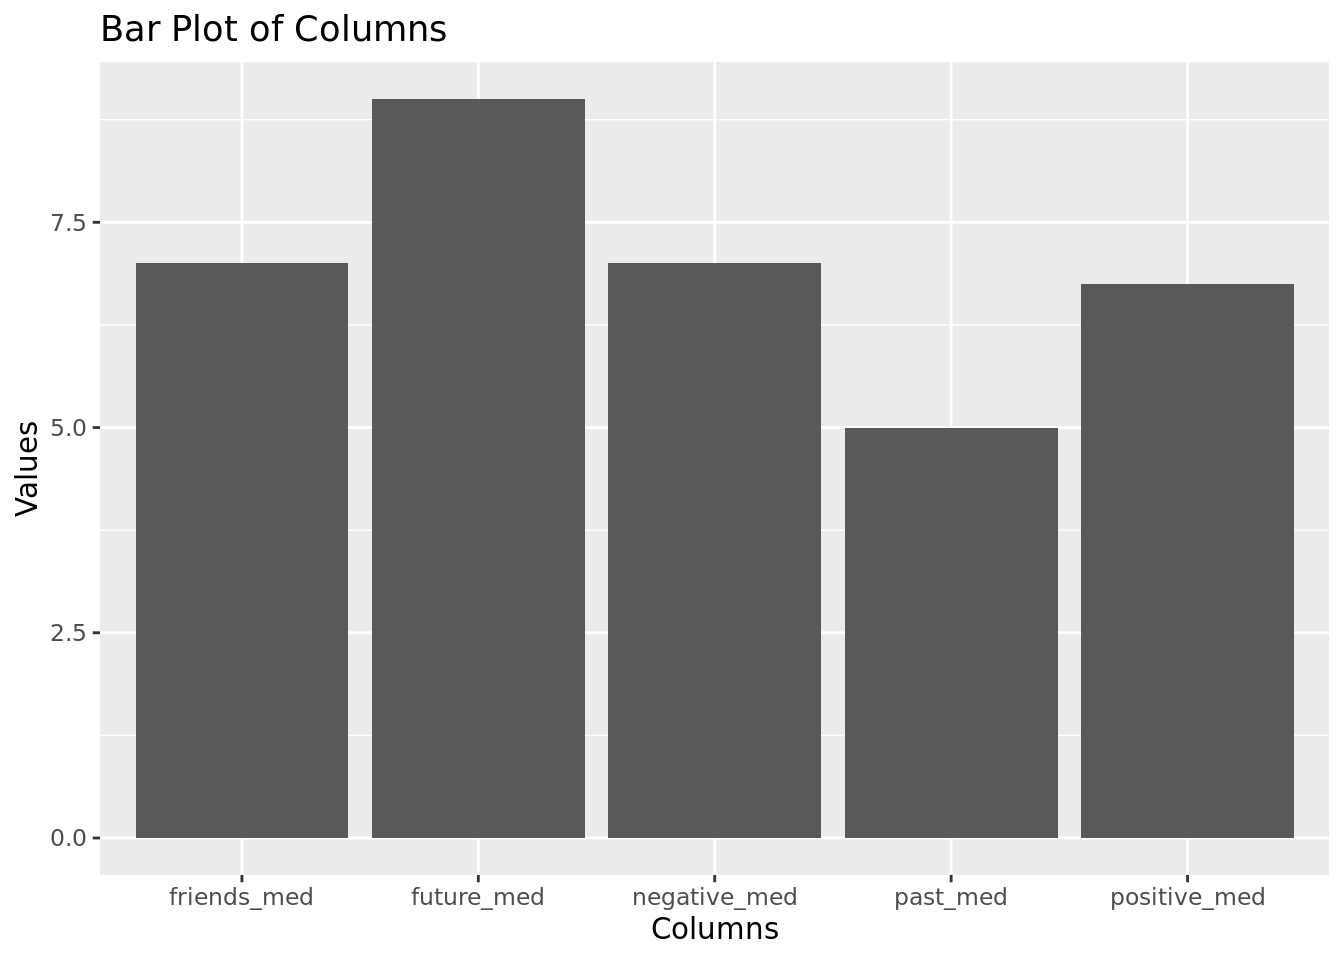
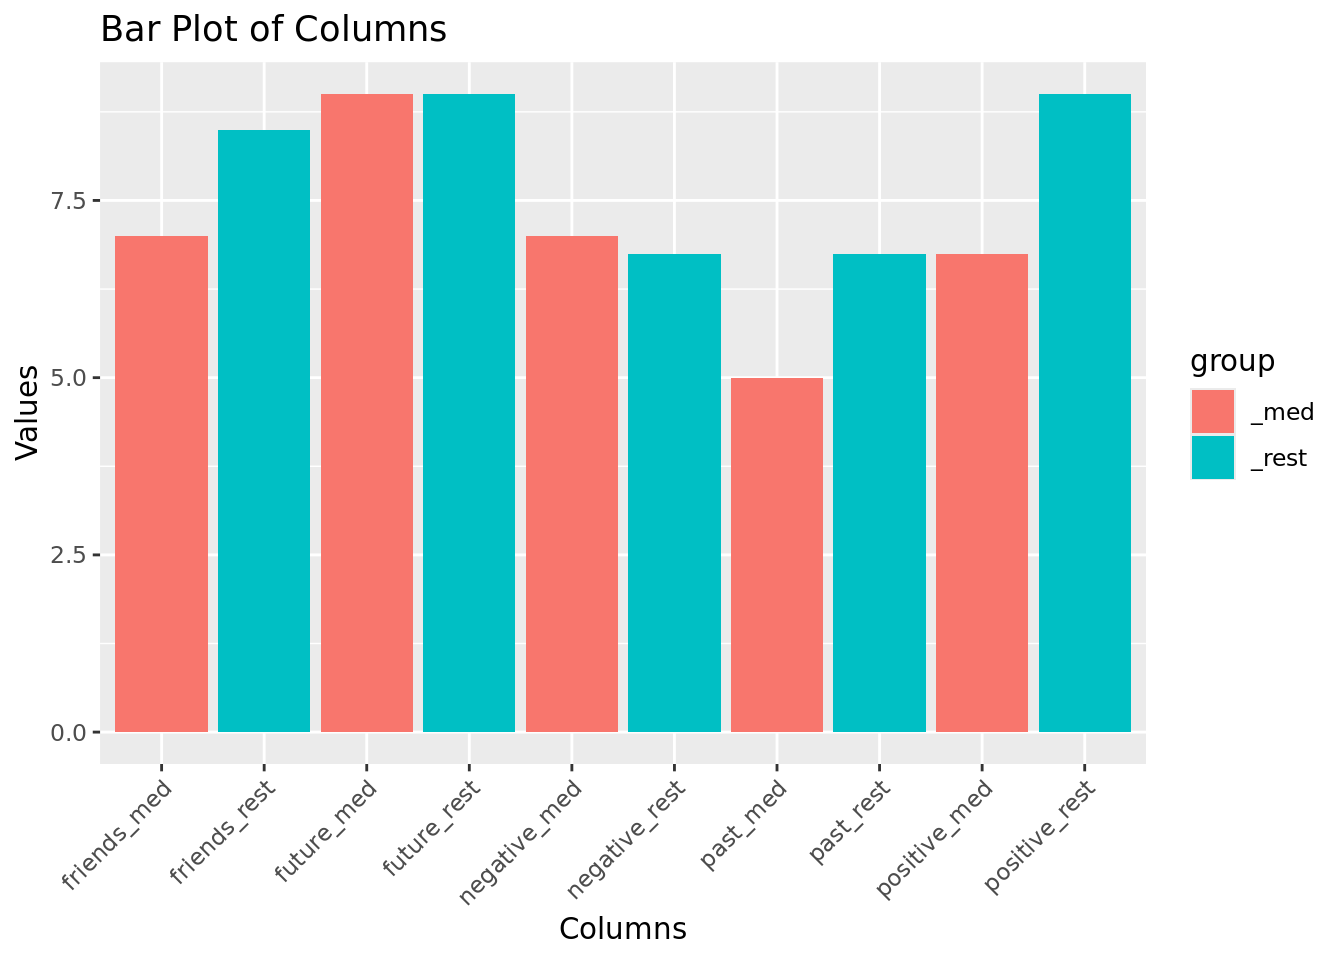
mostly done

diff --git a/eegAnalysis.html b/eegAnalysis.html
@@ -20,40 +20,6 @@ ul.task-list li input[type="checkbox"] {
   margin: 0 0.8em 0.2em -1em; /* quarto-specific, see https://github.com/quarto-dev/quarto-cli/issues/4556 */ 
   vertical-align: middle;
 }
-/* CSS for syntax highlighting */
-pre > code.sourceCode { white-space: pre; position: relative; }
-pre > code.sourceCode > span { line-height: 1.25; }
-pre > code.sourceCode > span:empty { height: 1.2em; }
-.sourceCode { overflow: visible; }
-code.sourceCode > span { color: inherit; text-decoration: inherit; }
-div.sourceCode { margin: 1em 0; }
-pre.sourceCode { margin: 0; }
-@media screen {
-div.sourceCode { overflow: auto; }
-}
-@media print {
-pre > code.sourceCode { white-space: pre-wrap; }
-pre > code.sourceCode > span { text-indent: -5em; padding-left: 5em; }
-}
-pre.numberSource code
-  { counter-reset: source-line 0; }
-pre.numberSource code > span
-  { position: relative; left: -4em; counter-increment: source-line; }
-pre.numberSource code > span > a:first-child::before
-  { content: counter(source-line);
-    position: relative; left: -1em; text-align: right; vertical-align: baseline;
-    border: none; display: inline-block;
-    -webkit-touch-callout: none; -webkit-user-select: none;
-    -khtml-user-select: none; -moz-user-select: none;
-    -ms-user-select: none; user-select: none;
-    padding: 0 4px; width: 4em;
-  }
-pre.numberSource { margin-left: 3em;  padding-left: 4px; }
-div.sourceCode
-  {   }
-@media screen {
-pre > code.sourceCode > span > a:first-child::before { text-decoration: underline; }
-}
 </style>
 
 
@@ -96,24 +62,118 @@ pre > code.sourceCode > span > a:first-child::before { text-decoration: underlin
 </header>
 
 
-<p>everything in nyc</p>
+<p>nyc surveys:</p>
 <div class="cell">
-<div class="sourceCode cell-code" id="cb1"><pre class="sourceCode r code-with-copy"><code class="sourceCode r"><span id="cb1-1"><a href="#cb1-1" aria-hidden="true" tabindex="-1"></a>nyc_long <span class="ot">&lt;-</span> <span class="fu">pivot_longer</span>(nyc, <span class="at">cols =</span> <span class="sc">-</span>koru_id)</span>
-<span id="cb1-2"><a href="#cb1-2" aria-hidden="true" tabindex="-1"></a></span>
-<span id="cb1-3"><a href="#cb1-3" aria-hidden="true" tabindex="-1"></a></span>
-<span id="cb1-4"><a href="#cb1-4" aria-hidden="true" tabindex="-1"></a>nyc_long<span class="sc">$</span>group <span class="ot">&lt;-</span> <span class="fu">ifelse</span>(<span class="fu">grepl</span>(<span class="st">"_med$"</span>, nyc_long<span class="sc">$</span>name), <span class="st">"_med"</span>, <span class="st">"_rest"</span>)</span>
-<span id="cb1-5"><a href="#cb1-5" aria-hidden="true" tabindex="-1"></a></span>
-<span id="cb1-6"><a href="#cb1-6" aria-hidden="true" tabindex="-1"></a><span class="fu">ggplot</span>(nyc_long, <span class="fu">aes</span>(<span class="at">x =</span> name, <span class="at">y =</span> value, <span class="at">fill =</span> group)) <span class="sc">+</span></span>
-<span id="cb1-7"><a href="#cb1-7" aria-hidden="true" tabindex="-1"></a>  <span class="fu">geom_bar</span>(<span class="at">stat =</span> <span class="st">"identity"</span>, <span class="at">position =</span> <span class="st">"dodge"</span>) <span class="sc">+</span></span>
-<span id="cb1-8"><a href="#cb1-8" aria-hidden="true" tabindex="-1"></a>  <span class="fu">labs</span>(<span class="at">title =</span> <span class="st">"Bar Plot of Columns"</span>,</span>
-<span id="cb1-9"><a href="#cb1-9" aria-hidden="true" tabindex="-1"></a>       <span class="at">x =</span> <span class="st">"Columns"</span>, <span class="at">y =</span> <span class="st">"Values"</span>) <span class="sc">+</span></span>
-<span id="cb1-10"><a href="#cb1-10" aria-hidden="true" tabindex="-1"></a>  <span class="fu">theme</span>(<span class="at">axis.text.x =</span> <span class="fu">element_text</span>(<span class="at">angle =</span> <span class="dv">45</span>, <span class="at">hjust =</span> <span class="dv">1</span>))</span></code><button title="Copy to Clipboard" class="code-copy-button"><i class="bi"></i></button></pre></div>
 <div class="cell-output-display">
 <div>
 <figure class="figure">
-<p><img src="eegAnalysis_files/figure-html/unnamed-chunk-6-1.png" class="img-fluid figure-img" width="672"></p>
+<p><img src="eegAnalysis_files/figure-html/unnamed-chunk-5-1.png" class="img-fluid figure-img" width="672"></p>
 </figure>
 </div>
+</div>
+</div>
+<p>Correlation Matrix for Meditation:</p>
+<div class="cell">
+<div class="cell-output-display">
+<div>
+<figure class="figure">
+<p><img src="eegAnalysis_files/figure-html/unnamed-chunk-7-1.png" class="img-fluid figure-img" width="672"></p>
+</figure>
+</div>
+</div>
+</div>
+<p>Correlation Matrix for Rest:</p>
+<div class="cell">
+<div class="cell-output-display">
+<div>
+<figure class="figure">
+<p><img src="eegAnalysis_files/figure-html/unnamed-chunk-8-1.png" class="img-fluid figure-img" width="672"></p>
+</figure>
+</div>
+</div>
+</div>
+<p>Correlation Coefficients for Meditation:</p>
+<div class="cell">
+<div class="cell-output cell-output-stdout">
+<pre><code>                      A           B           C            D            F
+past_med      0.1388497 -0.17612731  0.01955146 -0.003521553  0.004039637
+positive_med  0.1360529 -0.20523853 -0.18747738  0.282932846  0.206451106
+future_med    0.2322761 -0.28401333 -0.05326201  0.174425877  0.009822581
+negative_med  0.3176249 -0.01675787 -0.04398143 -0.182562961 -0.003496943
+friends_med  -0.1050891  0.14118961  0.10682603 -0.345505773  0.059079056</code></pre>
+</div>
+</div>
+<p>Correlation Coefficients for Rest:</p>
+<div class="cell">
+<div class="cell-output cell-output-stdout">
+<pre><code>                       A           B           C           D           F
+past_med     -0.54472642  0.22158059  0.41947020 -0.48286022 -0.08559348
+positive_med -0.09441204  0.09027758 -0.02716272 -0.14864081  0.21514012
+future_med    0.25307819 -0.18895024 -0.24153359  0.12280250  0.31309669
+negative_med  0.01734464  0.01984304  0.06435006 -0.05723016 -0.10360975
+friends_med  -0.16948513  0.17583427 -0.02086351 -0.04408263  0.08495973</code></pre>
+</div>
+</div>
+<p>P-values for Meditation:</p>
+<div class="cell">
+<div class="cell-output cell-output-stdout">
+<pre><code>        mednyc_col medcoverage_col correlation_coefficient   p_value
+cor       past_med               A             0.138849728 0.6359314
+cor1      past_med               B            -0.176127307 0.5469707
+cor2      past_med               C             0.019551460 0.9471073
+cor3      past_med               D            -0.003521553 0.9904672
+cor4      past_med               F             0.004039637 0.9890649
+cor5  positive_med               A             0.136052916 0.6428137
+cor6  positive_med               B            -0.205238526 0.4815045
+cor7  positive_med               C            -0.187477378 0.5209996
+cor8  positive_med               D             0.282932846 0.3270060
+cor9  positive_med               F             0.206451106 0.4788610
+cor10   future_med               A             0.232276064 0.4242390
+cor11   future_med               B            -0.284013327 0.3250820
+cor12   future_med               C            -0.053262009 0.8564975
+cor13   future_med               D             0.174425877 0.5509111
+cor14   future_med               F             0.009822581 0.9734142
+cor15 negative_med               A             0.317624869 0.2684622
+cor16 negative_med               B            -0.016757874 0.9546571
+cor17 negative_med               C            -0.043981428 0.8813239
+cor18 negative_med               D            -0.182562961 0.5321766
+cor19 negative_med               F            -0.003496943 0.9905339
+cor20  friends_med               A            -0.105089069 0.7206879
+cor21  friends_med               B             0.141189615 0.6301943
+cor22  friends_med               C             0.106826034 0.7162440
+cor23  friends_med               D            -0.345505773 0.2263018
+cor24  friends_med               F             0.059079056 0.8409976</code></pre>
+</div>
+</div>
+<p>P-values for Rest:</p>
+<div class="cell">
+<div class="cell-output cell-output-stdout">
+<pre><code>        restnyc_col restcoverage_col correlation_coefficient    p_value
+cor       past_rest                A             -0.54472642 0.04398711
+cor1      past_rest                B              0.22158059 0.44646571
+cor2      past_rest                C              0.41947020 0.13541971
+cor3      past_rest                D             -0.48286022 0.08030632
+cor4      past_rest                F             -0.08559348 0.77110023
+cor5  positive_rest                A             -0.09441204 0.74818016
+cor6  positive_rest                B              0.09027758 0.75890307
+cor7  positive_rest                C             -0.02716272 0.92656001
+cor8  positive_rest                D             -0.14864081 0.61205484
+cor9  positive_rest                F              0.21514012 0.46012153
+cor10   future_rest                A              0.25307819 0.38267125
+cor11   future_rest                B             -0.18895024 0.51767042
+cor12   future_rest                C             -0.24153359 0.40546506
+cor13   future_rest                D              0.12280250 0.67577555
+cor14   future_rest                F              0.31309669 0.27572246
+cor15 negative_rest                A              0.01734464 0.95307105
+cor16 negative_rest                B              0.01984304 0.94631950
+cor17 negative_rest                C              0.06435006 0.82699865
+cor18 negative_rest                D             -0.05723016 0.84591856
+cor19 negative_rest                F             -0.10360975 0.72447917
+cor20  friends_rest                A             -0.16948513 0.56242196
+cor21  friends_rest                B              0.17583427 0.54764845
+cor22  friends_rest                C             -0.02086351 0.94356278
+cor23  friends_rest                D             -0.04408263 0.88105253
+cor24  friends_rest                F              0.08495973 0.77275434</code></pre>
 </div>
 </div>
 
